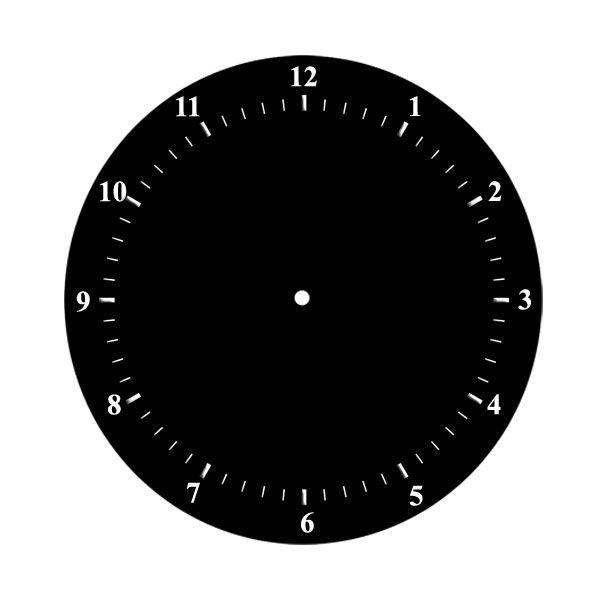
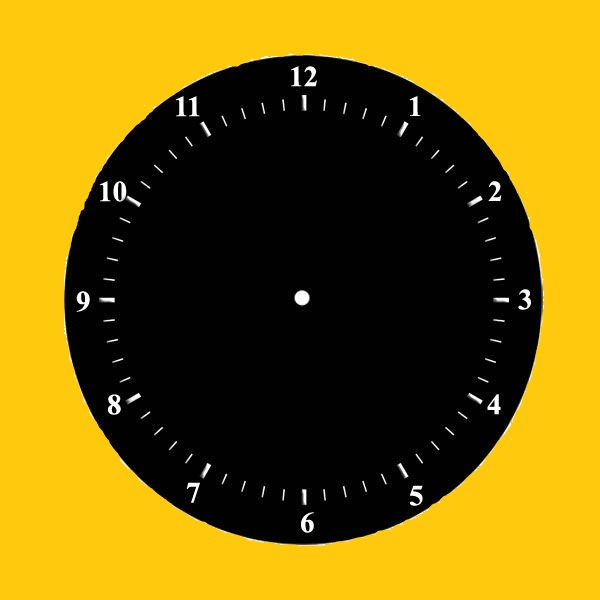
updated clock project

diff --git a/style.css b/style.css
@@ -1,3 +1,7 @@
+body{
+    background:url('bg.jpg');
+    background-size: 100%;
+}
 #clock{
     position: relative;
     height:30vw;
@@ -5,6 +9,7 @@
     margin: auto;
     background: url("clock.jpg");
     background-size: 100%;
+    
    
     
 }
@@ -19,7 +24,7 @@
     height: 17%;
     top: 33%;
     left: 49.4%;
-    opacity: 0.7;
+    opacity: 0.8;
     
 
 }
@@ -28,7 +33,7 @@
     height: 21%;
     top: 28%;
     left: 49.7%;
-    opacity: 0.7;
+    opacity: 0.8;
     
     
 }
@@ -38,15 +43,5 @@
     height: 24%;
     top: 26%;
     left: 49.98%;
-    opacity: 0.7;
-}
-button{
-    background-color: black;
-    color:white;
-    margin-left: 46.5%;
-    height:40px;
-    width: 100px;
-    font-size: medium;
-    
-
+    opacity: 0.8;
 }

diff --git a/logic.js b/logic.js
@@ -1,12 +1,12 @@
 'use strict';
-let clock =setInterval(() => {
- let d = new Date();
- let htime = d.getHours();
- let mtime = d.getMinutes();
- let stime = d.getSeconds();
- let hrotate=30*htime + mtime/2;
- let mrotate=6*mtime;
- let srotate=6*stime;
+setInterval(() => {
+    var d = new Date();
+    var htime = d.getHours();
+    var mtime = d.getMinutes();
+    var stime = d.getSeconds();
+    var hrotate=30*htime + mtime/2;
+    var mrotate=6*mtime;
+    var srotate=6*stime;
 
 hours.style.transform=`rotate(${hrotate}deg)`;
 minutes.style.transform=`rotate(${mrotate}deg)`;

diff --git a/page.htm b/page.htm
@@ -16,7 +16,7 @@
       <div id="seconds"></div>
       
   </div>
-  <button onclick="clearInterval(clock)">Stop Clock</button>
+  
  
 </body>
 </html>
